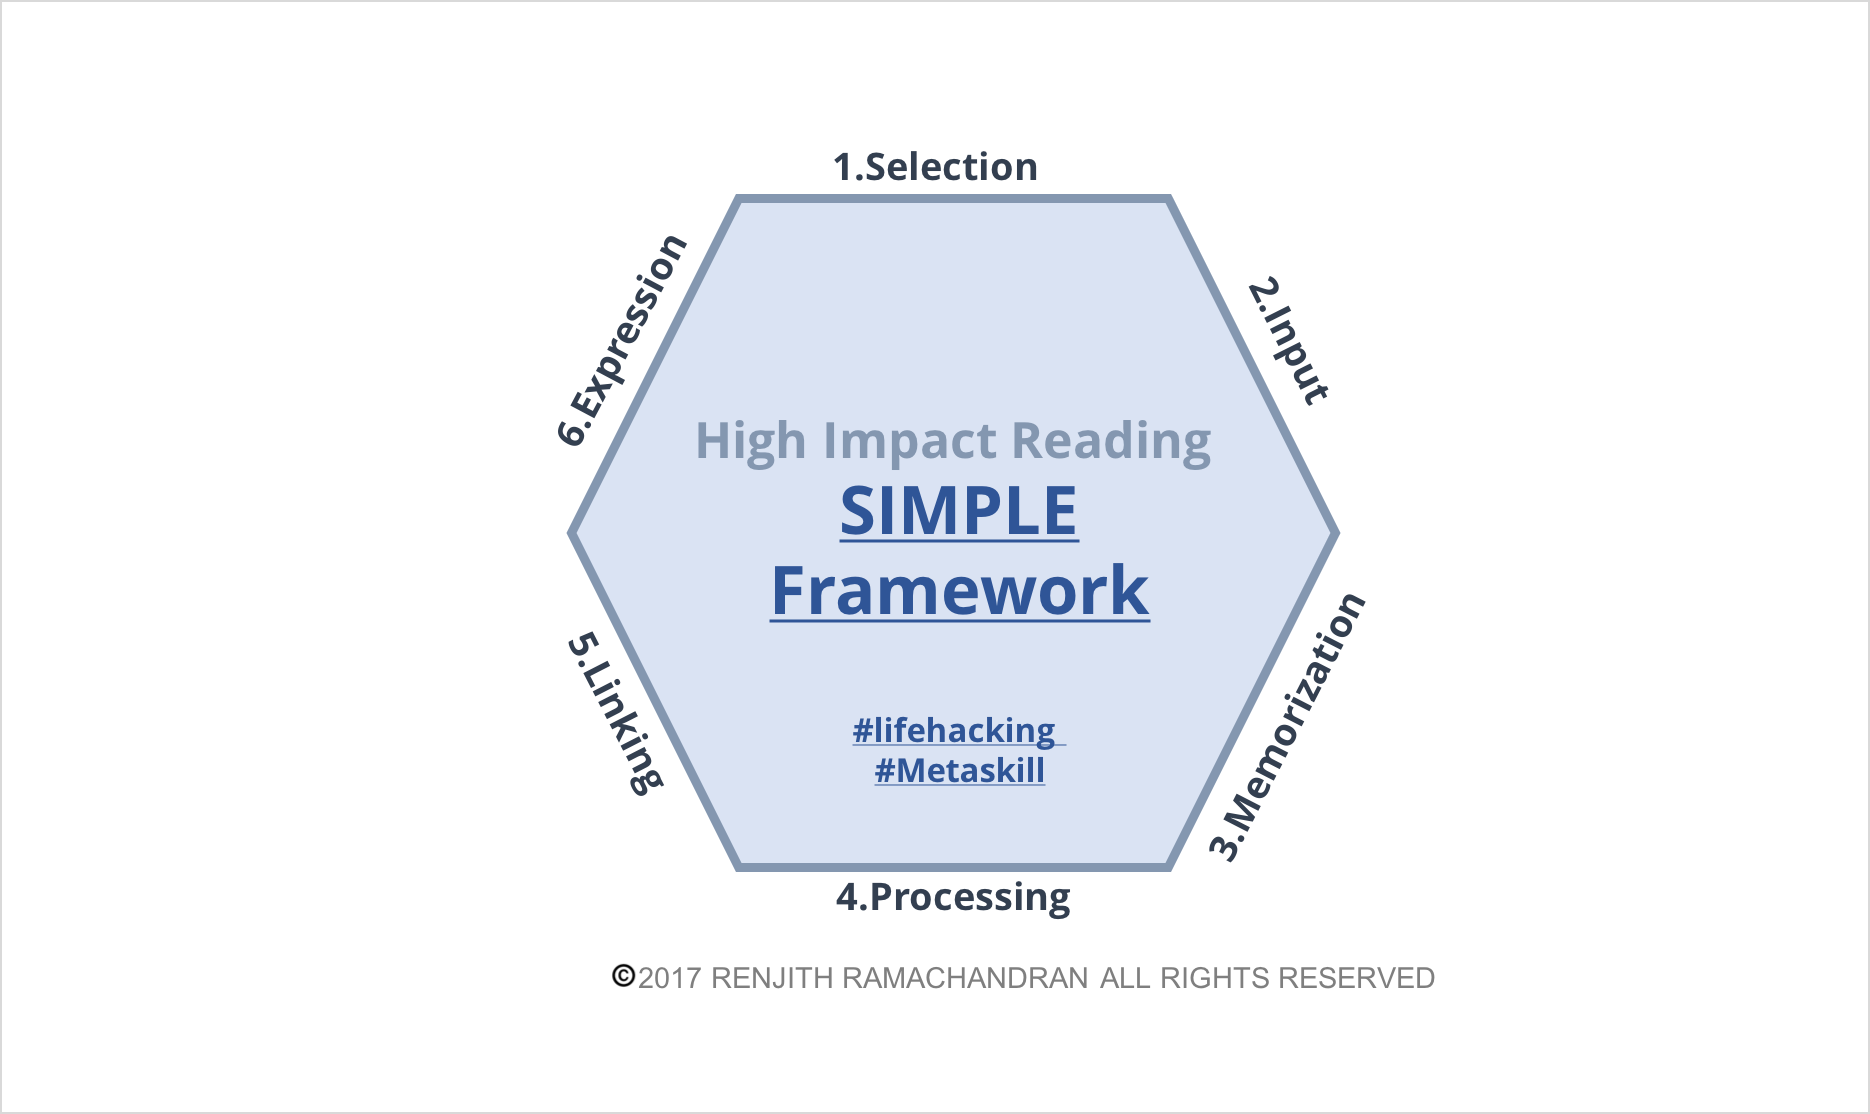
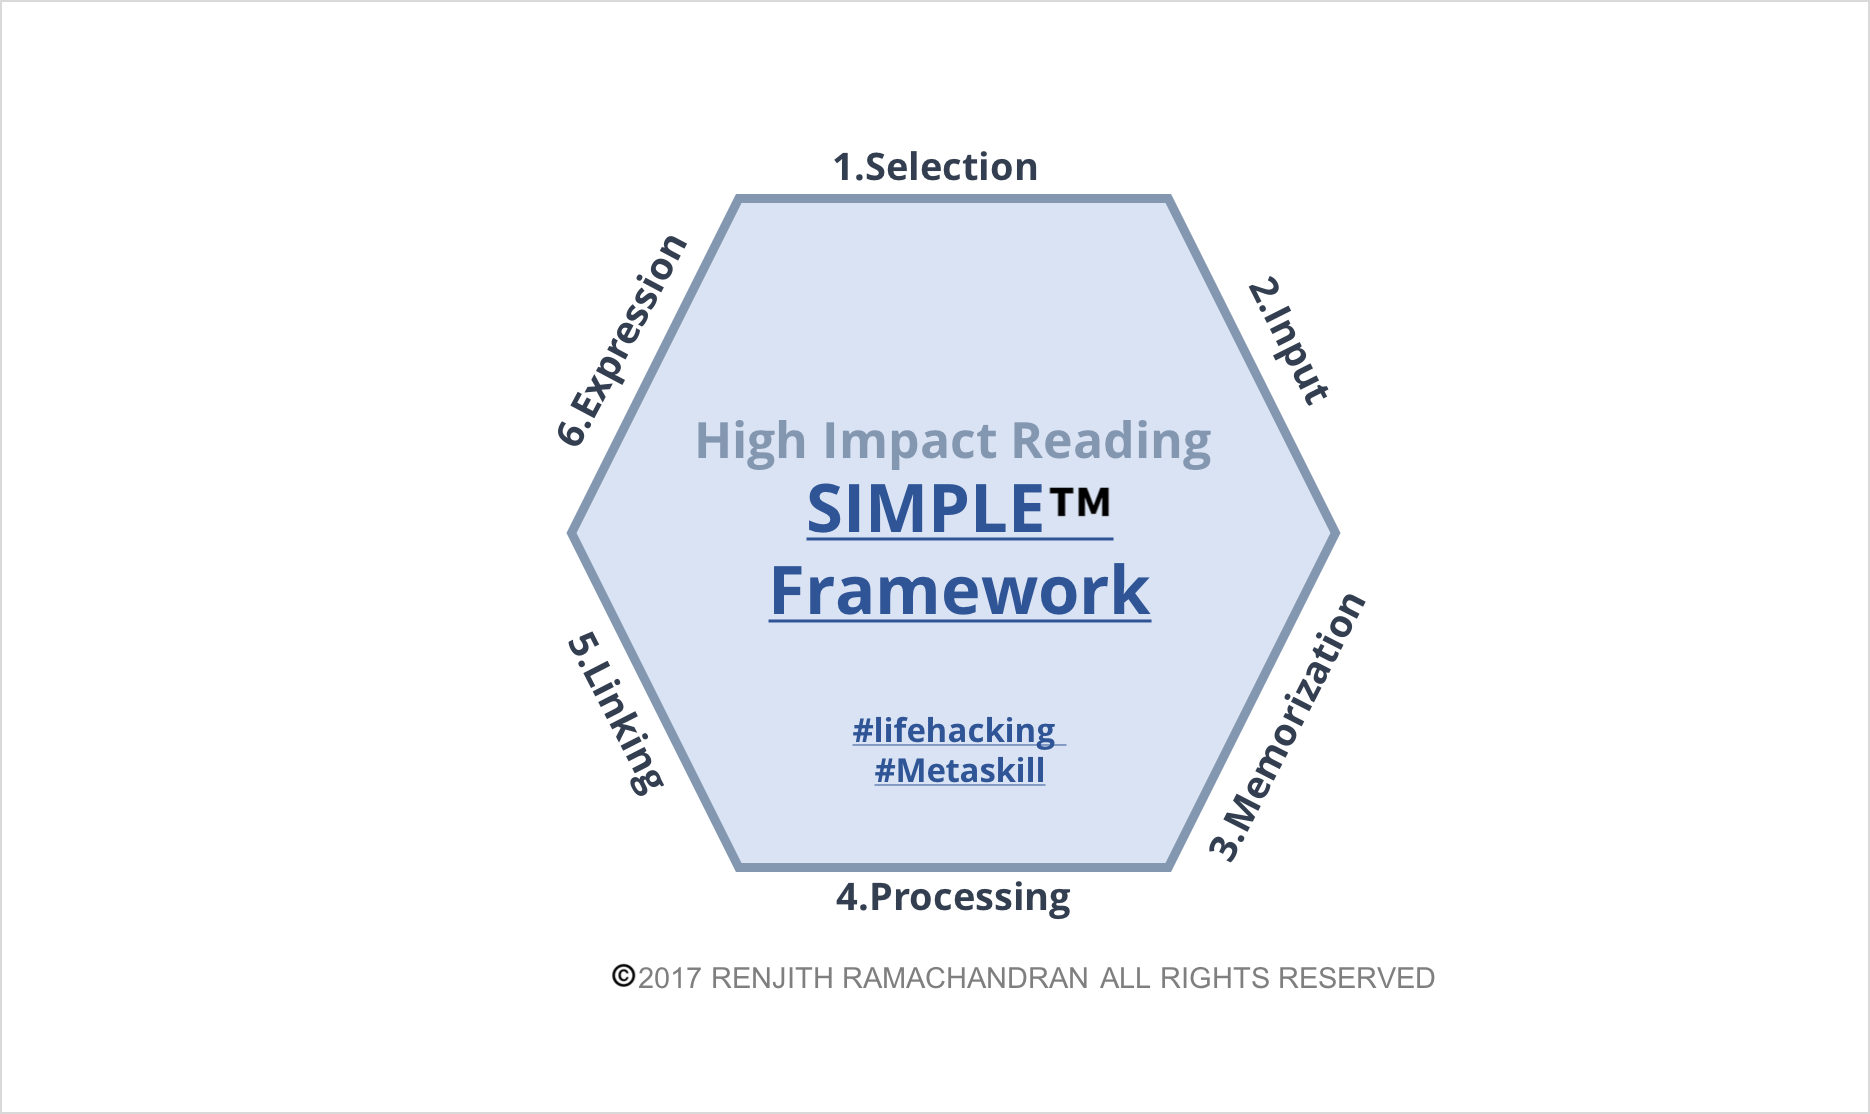
Small Changes to Trade Marking

Changed region(s): [[0.4342, 0.4273, 0.5893, 0.4883], [0.5273, 0.5189, 0.6203, 0.5494]]

diff --git a/articles/hireading.md b/articles/hireading.md
@@ -1,6 +1,6 @@
 ---
 layout: article
-title: High Impact Reading™ - SIMPLE™ Framework
+title: High Impact Reading - SIMPLE™ Framework
 permalink: /hireading/
 comments: true
 published: true
@@ -11,13 +11,13 @@ published: true
 
 Is there a better way to read non-fiction and business books which dramatically increases our comprehension and knowledge? Is the traditional linear reading the most effective way of reading a book? How can I retain all the information in a book in my mind when I need them?
 
-I started with these questions and after thinking and tweaking for several years, I have created an approach that dramatically improves the quality of reading for any non-fiction reader. I call this **High Impact Reading™**
+I started with these questions and after thinking and tweaking for several years, I have created an approach that dramatically improves the quality of reading for any non-fiction reader. I call this **High Impact Reading**
 
 * TOC
 {:toc}
 
 
-# *SIMPLE* Framework for High Impact Reading
+# *SIMPLE™* Framework for High Impact Reading
 
 The following are the six steps to more effective reading. I have arranged these steps into an easy to remember framework called SIMPLE. The following diagram summarizes the framework.
 

diff --git a/_posts/2017-08-20-hireading.md b/_posts/2017-08-20-hireading.md
@@ -4,7 +4,7 @@ title: High Impact Reading - SIMPLE framework
 comments: true
 ---
 
-I have created a framework for a reading approach that is 10-100X more effective than traditional reading. Here is my **High Impact Reading™** article.
+I have created a framework for a reading approach that is 10-100X more effective than traditional reading. Here is my **High Impact Reading** article.
 
 Happy Reading!
 
